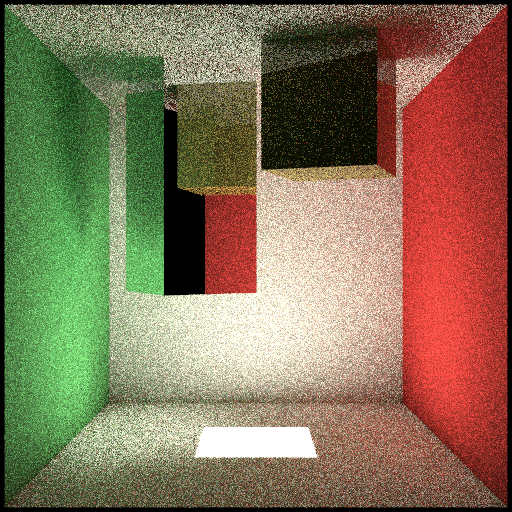
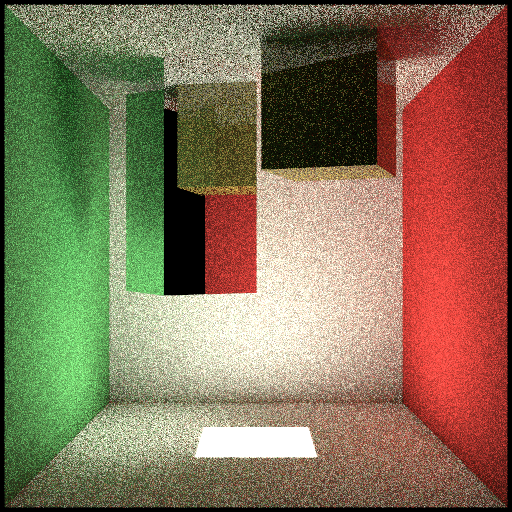
maybe

diff --git a/lab5/main.py b/lab5/main.py
@@ -187,8 +187,19 @@ class Scene:
         self._e1f = np.array([t.e1 for t in self.triangles]).ravel().astype(np.float64)
         self._e2f = np.array([t.e2 for t in self.triangles]).ravel().astype(np.float64)
         self._accel_built = True
-        # Строим маппинг для object_index
-        self._tri_id_to_idx = {id(t): i for i, t in enumerate(self.triangles)}
+        # Группируем треугольники по материалу: одна поверхность = один индекс.
+        # Треугольники с одинаковым материалом (пол, стена, грань бокса)
+        # получают один object_index — фильтр не создаёт швов внутри поверхности.
+        # Depth/normal веса по-прежнему не дают смешивать разные поверхности
+        # с одним материалом (пол vs потолок).
+        mat_to_idx = {}
+        next_idx = 0
+        for t in self.triangles:
+            mat_id = id(t.material)
+            if mat_id not in mat_to_idx:
+                mat_to_idx[mat_id] = next_idx
+                next_idx += 1
+            self._tri_id_to_idx[id(t)] = mat_to_idx[mat_id]
 
     def intersect(self, orig: np.ndarray, direction: np.ndarray
                   ) -> Tuple[Optional[Triangle], float]:
@@ -938,10 +949,10 @@ if __name__ == "__main__":
     GAMMA     = 2.2
 
     # Параметры билатерального фильтра
-    SIGMA_S = 4.0    # Пространственная сигма
+    SIGMA_S = 2.5    # Пространственная сигма (меньше → меньше размытие)
     SIGMA_Z = 0.05   # Сигма глубины
-    SIGMA_N = 0.15   # Сигма нормалей
-    RADIUS  = 8      # Радиус ядра (≈ 2 × sigma_s)
+    SIGMA_N = 0.08   # Сигма нормалей (меньше → резче геометрические границы)
+    RADIUS  = 6      # Радиус ядра (≈ 2 × sigma_s)
 
     print(f"\n--- Рендеринг с G-буферами (SPP={SPP}) ---")
     print("Построение сцены (Корнельская коробка)...")